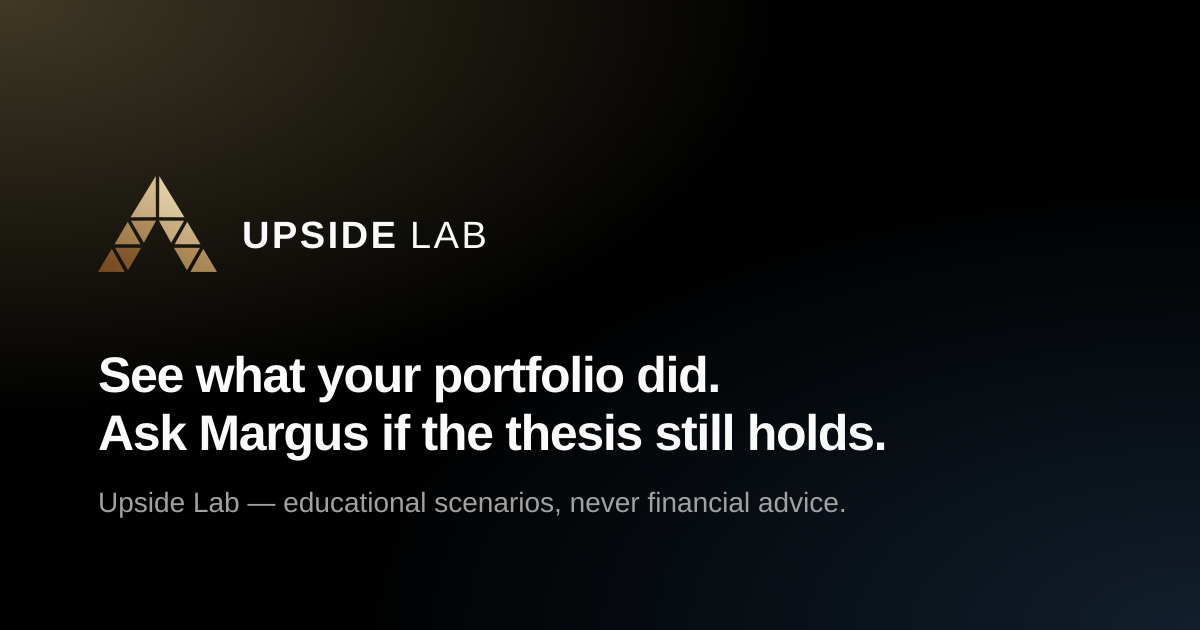
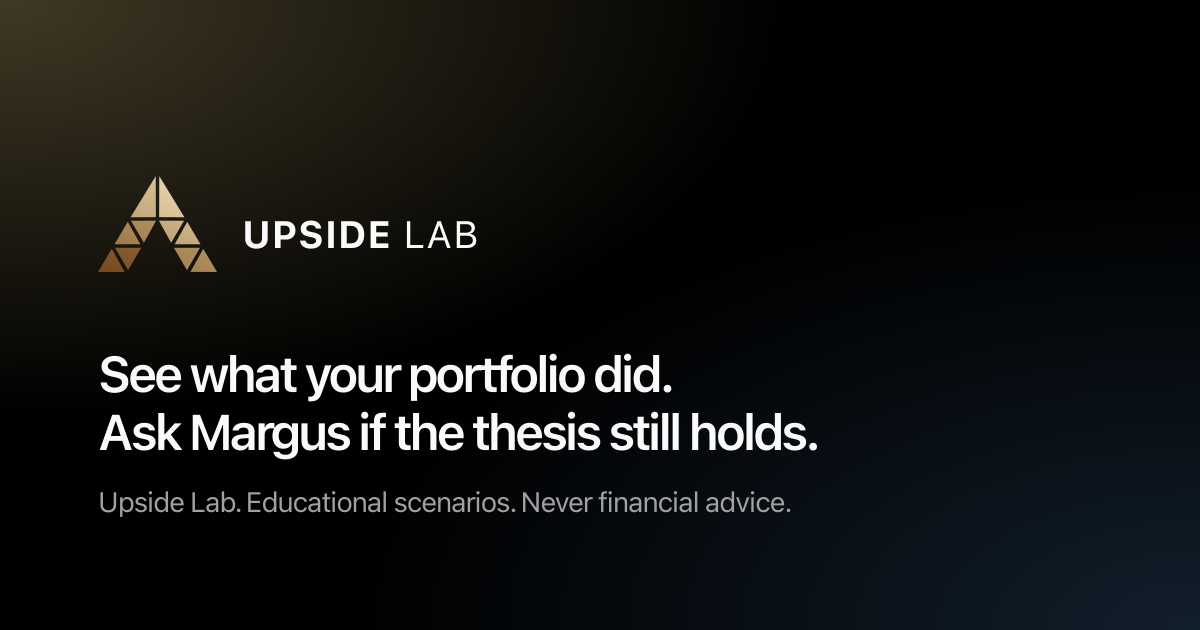
fix: drop the em dash from the social preview card
The OG PNG was painted from a script the copy tests never walked, so the
ban on dashes missed the first sentence a stranger reads.

Changed region(s): [[0.0925, 0.5429, 0.74, 0.7238], [0.0925, 0.7841, 0.7092, 0.8143], [0.2158, 0.3317, 0.4008, 0.3921]]

diff --git a/src/lib/reader-copy.test.ts b/src/lib/reader-copy.test.ts
@@ -1,6 +1,11 @@
 import { readFileSync, readdirSync, statSync } from "node:fs";
 import { join } from "node:path";
 import { describe, expect, it } from "vitest";
+import {
+  OG_CARD_LINE,
+  PRODUCT_HEADLINE,
+  PRODUCT_SENTENCE,
+} from "@/lib/product";
 
 /*
   Nothing a reader sees may contain an em dash or an en dash.
@@ -132,10 +137,19 @@ function sourceFiles(dir: string): string[] {
 describe("copy reads as a person wrote it", () => {
   const files = sourceFiles("src");
 
+  /*
+    The social card is painted from a Node script, not from src/, and the
+    GitHub README is the other page a stranger reads before the app. Both
+    were outside the walk that used to live here, which is how an em dash
+    sat on og.png while every screen in src/ was clean.
+  */
+  const EXTRA = ["scripts/generate-pwa-icons.mjs", "README.md"];
+
   it("finds the source tree it is supposed to be checking", () => {
     expect(files.length).toBeGreaterThan(100);
     expect(files).toContain("src/lib/welcome-tour.ts");
     expect(files).toContain("src/components/WelcomeTour.tsx");
+    expect(files).toContain("src/lib/product.ts");
   });
 
   it("has no em dash a reader could see, anywhere in src", () => {
@@ -157,6 +171,54 @@ describe("copy reads as a person wrote it", () => {
           .filter((l) => l.text.includes(EN))
           .map((l) => `${f}:${l.line}: ${l.text.trim()}`)
       );
+    expect(bad).toEqual([]);
+  });
+
+  it("has no em or en dash on the social card, or in the README", () => {
+    const bad = EXTRA.flatMap((f) =>
+      readerFacingLines(f)
+        .filter((l) => l.text.includes(EM) || l.text.includes(EN))
+        .map((l) => `${f}:${l.line}: ${l.text.trim()}`)
+    );
+    expect(bad).toEqual([]);
+  });
+
+  it("paints the social card from product copy, never a hardcoded line", () => {
+    const src = readFileSync("scripts/generate-pwa-icons.mjs", "utf8");
+    expect(src).toContain("${PRODUCT_HEADLINE[0]}");
+    expect(src).toContain("${PRODUCT_HEADLINE[1]}");
+    expect(src).toContain("${OG_CARD_LINE}");
+    expect(src).not.toMatch(/[\u2014\u2013]/);
+    expect(PRODUCT_HEADLINE).toHaveLength(2);
+    expect(PRODUCT_SENTENCE).toBe(PRODUCT_HEADLINE.join(" "));
+    expect(OG_CARD_LINE).not.toMatch(/[\u2014\u2013]/);
+    expect(OG_CARD_LINE.startsWith("Upside Lab.")).toBe(true);
+  });
+
+  /*
+    Same argument as the dash: a brochure word on a public surface is how
+    the product starts sounding generated. The sanitizer already strips
+    these out of Margus. This is the hand-written side.
+  */
+  it("does not use brochure words on public surfaces", () => {
+    const brochure =
+      /\b(delve|testament|groundbreaking|seamless|cutting-edge|harness|navigating|empower)\b/i;
+    const publicCopy = [
+      "src/lib/product.ts",
+      "src/lib/welcome-tour.ts",
+      "src/lib/disclaimer.ts",
+      "src/lib/email-letter.ts",
+      "src/components/SignedOutLanding.tsx",
+      "src/components/SignInGate.tsx",
+      "src/components/WelcomeTour.tsx",
+      "README.md",
+      "scripts/generate-pwa-icons.mjs",
+    ];
+    const bad = publicCopy.flatMap((f) =>
+      readerFacingLines(f)
+        .filter((l) => brochure.test(l.text))
+        .map((l) => `${f}:${l.line}: ${l.text.trim()}`)
+    );
     expect(bad).toEqual([]);
   });
 

diff --git a/src/lib/product.ts b/src/lib/product.ts
@@ -11,8 +11,28 @@ export const PRODUCT_DOMAIN = "upsidelab.app";
 
 export const PRODUCT_ORIGIN = `https://${PRODUCT_DOMAIN}`;
 
-export const PRODUCT_SENTENCE =
-  "See what your portfolio did. Ask Margus if the thesis still holds.";
+/**
+ * The two lines on the social card, and the one sentence everywhere else.
+ *
+ * Split here so the PNG cannot drift from the metadata. The card paints
+ * these as two lines; join them for titles and descriptions.
+ */
+export const PRODUCT_HEADLINE = [
+  "See what your portfolio did.",
+  "Ask Margus if the thesis still holds.",
+] as const;
+
+export const PRODUCT_SENTENCE = PRODUCT_HEADLINE.join(" ");
+
+/**
+ * The small line under the headline on the social card.
+ *
+ * Periods, never a dash. This is the first sentence a stranger reads when
+ * the link is pasted into Slack or a browser tab, so it has to sound like
+ * a person wrote it.
+ */
+export const OG_CARD_LINE =
+  `${PRODUCT_NAME}. Educational scenarios. Never financial advice.`;
 
 export const PRODUCT_BLURB =
   "A morning read of the names you own. Not another brokerage.";
@@ -52,7 +72,7 @@ export const SIGNIN_FEATURES = [
   {
     title: "Margus",
     detail:
-      "An assistant that has read your portfolio. Ask it why something moved, in plain words.",
+      "Has read your portfolio. Ask why something moved, in plain words.",
   },
   {
     title: "Forecast",

diff --git a/src/components/WelcomeTour.tsx b/src/components/WelcomeTour.tsx
@@ -776,9 +776,9 @@ export function WelcomeTour({
             <div className="flex flex-col gap-4">
               <ul className="grid gap-2 sm:grid-cols-2">
                 <Row icon={MessageCircle} term="Margus">
-                  An assistant that can read your portfolio and talk it through
-                  in plain language. Ask why something moved, what a number
-                  means, or what you would be left with if one name halved.
+                  Has read your portfolio. Ask why something moved, what a
+                  number means, or what you would be left with if one name
+                  halved.
                 </Row>
                 <Row icon={Activity} term="Thesis Pulse and Forecast">
                   Pulse checks whether the story behind a holding still stands.
@@ -1152,7 +1152,7 @@ export function WelcomeTour({
                 )}
                 <Row icon={MessageCircle} term="If you get stuck">
                   Ask Margus. It knows what is in your portfolio and answers in
-                  plain language.
+                  plain words.
                 </Row>
                 <Row icon={UserCog} term="If you want this again">
                   Account &rsaquo; Help has a button that replays this

diff --git a/src/lib/welcome-tour.ts b/src/lib/welcome-tour.ts
@@ -93,9 +93,9 @@ export function screenCopy(
       };
     case "helps":
       return {
-        title: "The parts that do the thinking",
+        title: "Pulse, Margus, and the Sunday letter",
         lede:
-          "Three of them, and all three are about the names you already hold. None of them will tell you to buy, sell, or hold.",
+          "All three are about the names you already hold. None of them will tell you to buy, sell, or hold.",
       };
     case "rules":
       return {

diff --git a/src/lib/site-metadata.test.ts b/src/lib/site-metadata.test.ts
@@ -20,7 +20,7 @@ describe("site metadata", () => {
     expect(HOME_METADATA.openGraph?.url).toBe("https://upsidelab.app");
     expect(LOGIN_METADATA.openGraph?.images).toEqual(
       expect.arrayContaining([
-        expect.objectContaining({ url: "/og.png?v=6", width: 1200, height: 630 }),
+        expect.objectContaining({ url: "/og.png?v=7", width: 1200, height: 630 }),
       ])
     );
     expect(COMMUNITIES_METADATA.robots).toMatchObject({

diff --git a/src/lib/seo-routes.ts b/src/lib/seo-routes.ts
@@ -37,6 +37,6 @@ export const BOOK_ROOM_PATHS = [
   "/margus",
 ] as const;
 
-export const OG_IMAGE_PATH = "/og.png?v=6";
+export const OG_IMAGE_PATH = "/og.png?v=7";
 export const OG_IMAGE_WIDTH = 1200;
 export const OG_IMAGE_HEIGHT = 630;

diff --git a/README.md b/README.md
@@ -61,7 +61,7 @@ npm run migrate:online -- --lint supabase/migrations/20260823170000_one_account_
 ```
 
 New migrations are timestamp-named (`YYYYMMDDHHMMSS_name.sql`). The numbered
-`001_`–`054_` files are the earlier convention and stay as they are.
+`001_` to `054_` files are the earlier convention and stay as they are.
 
 CI runs typecheck, lint, `npm test`, the invariants suite (`test:invariants`,
 `check:edges`, `validate`, `bench:concurrency`), `npm audit`, the row level
